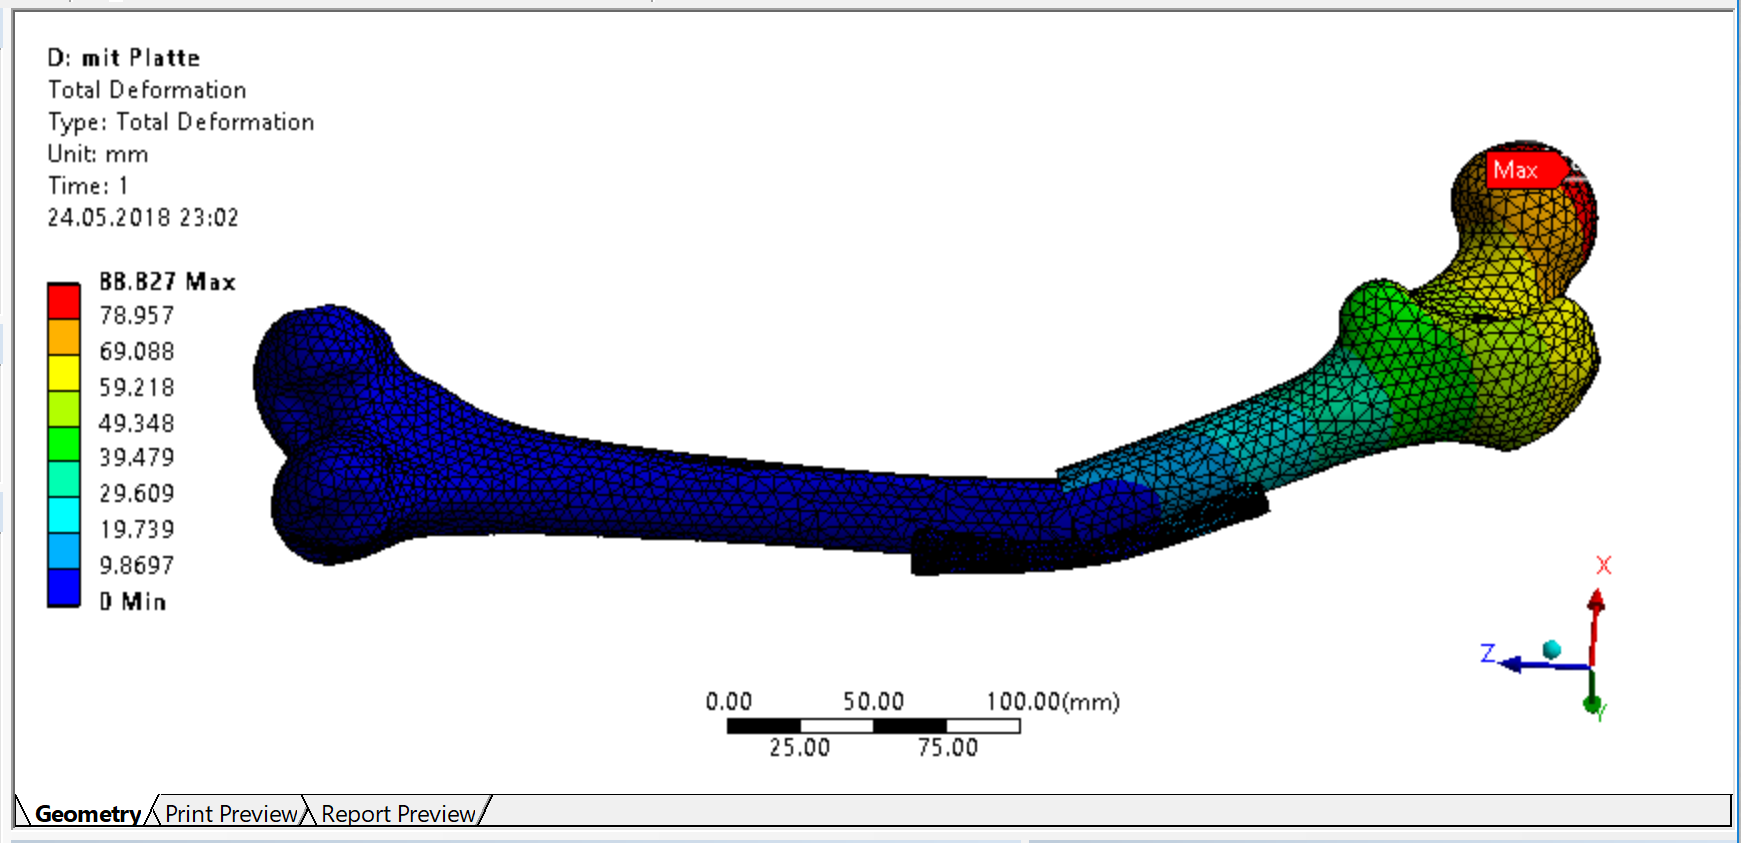
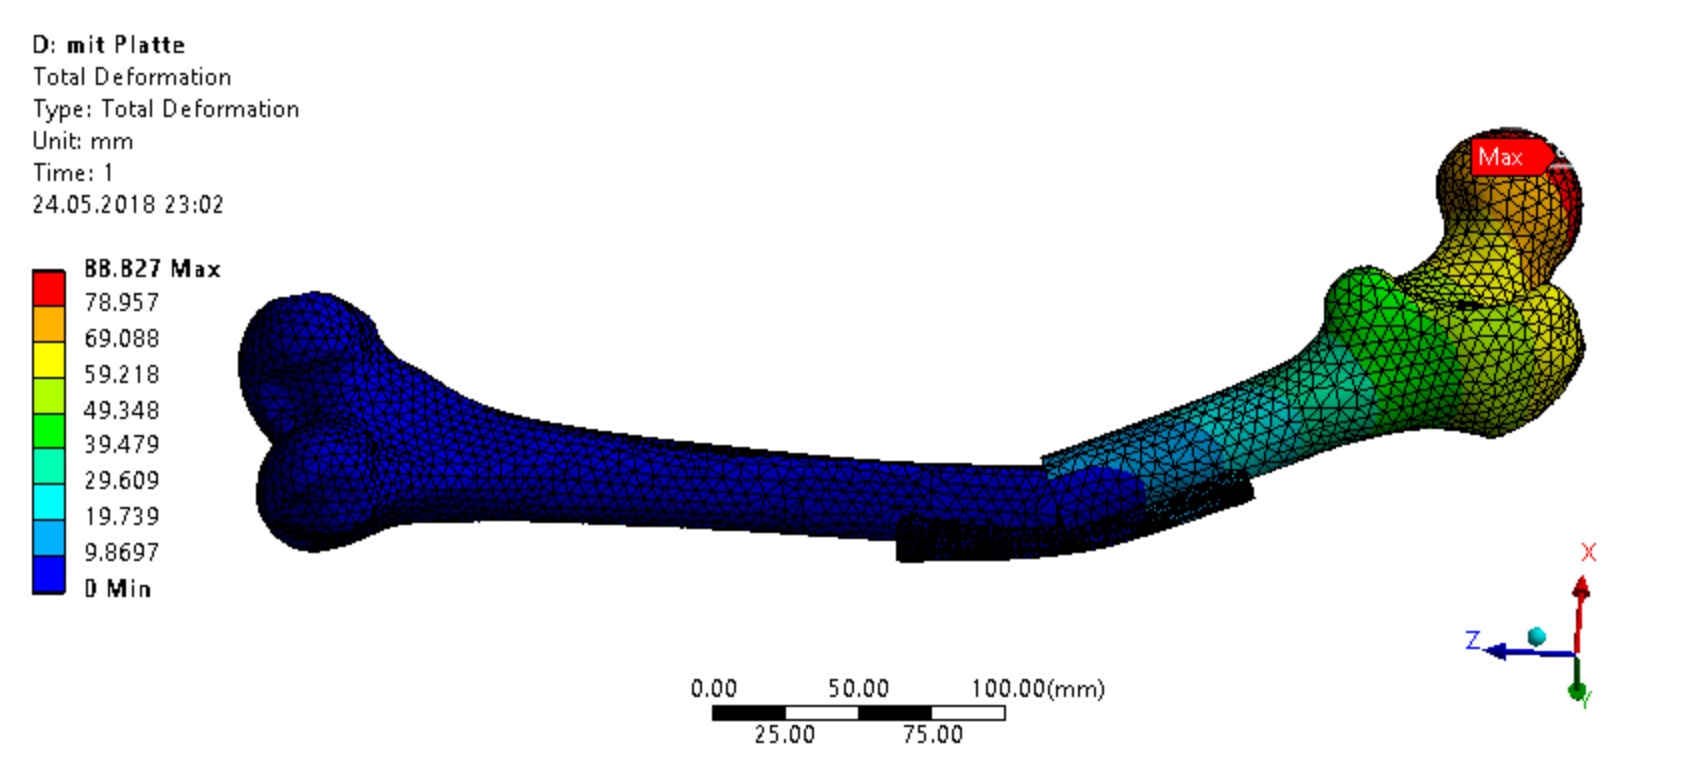
progress on nmp_projekt2

Changed region(s): [[0.0, 0.0, 1.0, 1.0], [0.8418, 0.6769, 0.9353, 0.9231]]

diff --git a/nmp_projekt2/content/inhalt.tex b/nmp_projekt2/content/inhalt.tex
@@ -19,33 +19,117 @@ eee
 		\end{enumerate}
 		
 		Da meine CAD Konstruktions-Fähigkeiten beschränkt sind 	
+		
+
+\section{CAD Modellierung}
+
+\section{FEM Analyse}
+
+	\subsection{Materialdaten}
+		\begin{center}
+			\begin{tabular}{ | p{6cm} | p{3cm} | }
+				\multicolumn{1}{l}{\bfseries Material} & \multicolumn{1}{l}{\bfseries E-Modus } \\ \hline
+				Knochen (bone) & $ 1300 \frac{kg}{m^3} $ \\ \hline
+				Titanlegierung (titanium alloy) & $ 4620 \frac{kg}{m^3} $ \\ \hline
+			\end{tabular}
+			\captionof{table}{Materialdaten}
+			\label{fig:device3}
+		\end{center}
+
+	\subsection{Vernetzung}
+		\begin{Figure}
+			\centering
+			\includegraphics[width=15cm]{content/images/mesh_quality.png}
+			\captionof{figure}{Magic-Angle-Spinning (MAS) Aufbau}
+			\label{fig:device3}
+		\end{Figure}
+		
+		\begin{Figure}
+			\centering
+			\includegraphics[width=15cm]{content/images/mesh_quality_graph_2.png}
+			\captionof{figure}{Magic-Angle-Spinning (MAS) Aufbau}
+			\label{fig:device3}
+		\end{Figure}
+		
+		\begin{Figure}
+			\centering
+			\includegraphics[width=15cm]{content/images/mesh_quality_graph_3.png}
+			\captionof{figure}{Magic-Angle-Spinning (MAS) Aufbau}
+			\label{fig:device3}
+		\end{Figure}
+
+	\subsection{Lager- und Reaktionskräfte}
+		\begin{Figure}
+			\centering
+			\includegraphics[width=15cm]{content/images/kraefte.png}
+			\captionof{figure}{Magic-Angle-Spinning (MAS) Aufbau}
+			\label{fig:device3}
+		\end{Figure}
 
 
 \section{Resultate}
 
-	\subsubsection{Gesamtverformung}
+	\subsection{Gesamtverformung}
 	
 		\begin{Figure}
 			\centering
-			\includegraphics[trim={0cm 21.2cm 9.7cm 0},clip,width=7cm]{images/Device_3.pdf}
-			\captionof{figure}{Magic-Angle-Spinning (MAS) Aufbau}
-			\label{fig:device3}
-			\vspace*{0.5mm}
+			\includegraphics[width=15cm]{content/images/deformation.png}
+				\captionof{figure}{Gesamtdeformation der Osteosyntheseplatte}
+			\label{fig:deformation}
 		\end{Figure}
 	
-	\subsubsection{Vergleichsspannung}
+		\subsubsection{Vergleichsplatte}
+	
+			\begin{Figure}
+				\centering
+				\includegraphics[width=15cm]{content/images/vergleich_deformation.png}
+				\captionof{figure}{Gesamtdeformation der Vergleichsplatte}
+				\label{fig:vergleich_deformation}
+			\end{Figure}
+	
+	\subsection{Vergleichsspannung}
+	
+		\begin{Figure}
+			\centering
+			\includegraphics[width=15cm]{content/images/stress_side.png}
+			\captionof{figure}{Vergleichsspannung der Osteosyntheseplatte (vorne)}
+			\label{fig:stress_side}
+		\end{Figure}
+	
+		\begin{Figure}
+			\centering
+			\includegraphics[width=15cm]{content/images/stress_side_profile.png}
+			\captionof{figure}{Vergleichsspannung der Osteosyntheseplatte (vorne, im Querschnitt)}
+			\label{fig:stress_side_profile}
+		\end{Figure}
+	
+		\begin{Figure}
+			\centering
+			\includegraphics[width=15cm]{content/images/stress_top.png}
+			\captionof{figure}{Vergleichsspannung der Osteosyntheseplatte (oben)}
+			\label{fig:stress_top}
+		\end{Figure}
+		
+		\subsubsection{Vergleichsplatte}
+		
+			\begin{Figure}
+				\centering
+				\includegraphics[width=15cm]{content/images/vergleich_stress_side.png}
+				\captionof{figure}{Vergleichsspannung der Vergleichsplatte (vorne)}
+				\label{fig:vergleich_stress_side}
+			\end{Figure}
+		
+			\begin{Figure}
+				\centering
+				\includegraphics[width=15cm]{content/images/vergleich_stress_top.png}
+				\captionof{figure}{Vergleichsspannung der Vergleichsplatte (oben)}
+				\label{fig:vergleich_stress_top}
+			\end{Figure}
+	
+	
 
-
-
-bbb
-
-\vbox{\hbox{Two lines}\hbox{of type.}}
-
-%\demobox{Das ist ein Test}
-
-%\fbox{Das ist ein Test}
 
 \section{Diskussion}
 
-ccc
+	ccc
 

diff --git a/nmp_projekt2/header/header.tex b/nmp_projekt2/header/header.tex
@@ -23,7 +23,7 @@
 \usepackage{tikz}
 \usepackage{caption}
 
-\usepackage[left=3cm,right=2.5cm,top=2.7cm,bottom=3.2cm]{geometry}
+\usepackage[inner=3cm,outer=2.5cm,top=2.7cm,bottom=3.2cm]{geometry}
 
 
 %%% GLOSSAR UND ABKÜRZUNGEN %%%%%%%%%%%%%%%%%%%%%%%%%%%%%%%%%%%%%%%%%%%%%%%%%%%%

diff --git a/nmp_projekt2/bericht.tex b/nmp_projekt2/bericht.tex
@@ -15,6 +15,7 @@
 	%\maketitle
 	
 	%% Inhaltsverzeichnis
+	\setcounter{tocdepth}{2}
 	\tableofcontents
 	\newpage
 	
